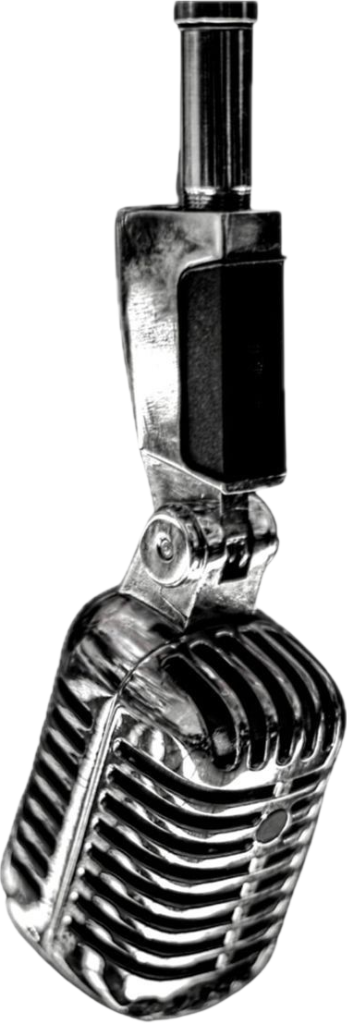
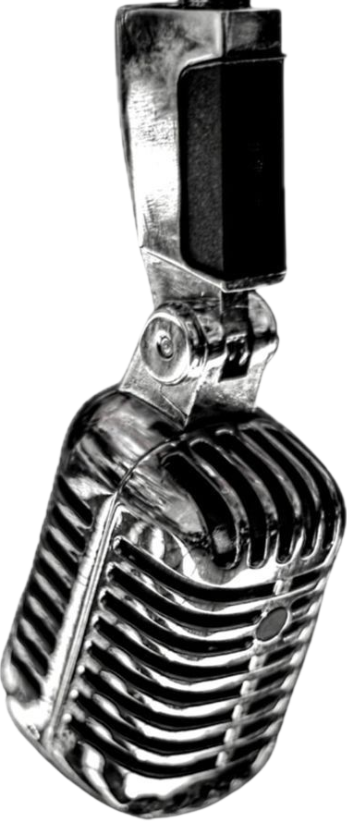
fix(mic-asset): crop top 202px cable stub from vintage-mic2.png so image starts at top metal connector, align 58.5% 0px transformOrigin with zero gap

diff --git a/src/components/ui/GlobalMicrophoneJourney.jsx b/src/components/ui/GlobalMicrophoneJourney.jsx
@@ -36,8 +36,8 @@ export const GlobalMicrophoneJourney = ({ active = true }) => {
 
       const isMobile = fullW < 768;
 
-      // Adjust stroke thickness: 3.5px on desktop, 2.2px on mobile
-      pathEl.setAttribute('stroke-width', isMobile ? '2.2' : '3.5');
+      // Stroke thickness: 3.2px on desktop, 2.0px on mobile
+      pathEl.setAttribute('stroke-width', isMobile ? '2.0' : '3.2');
 
       // Section Landmark Waypoints (Gutter & Edge Aligned)
       const points = [
@@ -116,15 +116,18 @@ export const GlobalMicrophoneJourney = ({ active = true }) => {
         const totalLength = pathObj.getTotalLength();
         const vh = window.innerHeight;
         const isMobile = window.innerWidth < 768;
-        const halfWidth = isMobile ? 28 : 32;
+        
+        // Microphone display width & top connector X offset (58.5% of width)
+        const micWidth = isMobile ? 48 : 56;
+        const connectorXOffset = micWidth * 0.585;
 
         // Position microphone suspended near ~55% of user's active viewport
         const targetDocY = currentScrollY.current + (vh * 0.55);
 
         const distance = findPathDistanceForY(pathObj, totalLength, targetDocY);
 
-        // Cable extends 3px past the connection point to enter directly inside the metallic ferrule (0 gap!)
-        pathObj.style.strokeDashoffset = `${totalLength - distance + 3}`;
+        // Cable terminates exactly at distance (pt.x, pt.y) without extra extension
+        pathObj.style.strokeDashoffset = `${totalLength - distance}`;
 
         // Get exact position and curve tangent angle
         const pt = pathObj.getPointAtLength(distance);
@@ -134,8 +137,8 @@ export const GlobalMicrophoneJourney = ({ active = true }) => {
         let angleDeg = (angleRad * (180 / Math.PI)) - 90;
         angleDeg = Math.min(6, Math.max(-6, angleDeg)); // Natural subtle pendulum sway (-6deg to +6deg)
 
-        // Pivot exactly from (pt.x, pt.y) top center mount
-        micObj.style.transform = `translate3d(${pt.x - halfWidth}px, ${pt.y - 2}px, 0px) rotate(${angleDeg}deg)`;
+        // Translate so top metal connector (58.5%, 0px) meets (pt.x, pt.y) exactly with 0 gap
+        micObj.style.transform = `translate3d(${pt.x - connectorXOffset}px, ${pt.y}px, 0px) rotate(${angleDeg}deg)`;
       }
 
       animationFrameRef.current = requestAnimationFrame(renderLoop);
@@ -166,28 +169,24 @@ export const GlobalMicrophoneJourney = ({ active = true }) => {
           ref={pathRef}
           fill="none"
           stroke="#E7D5A4"
-          strokeWidth="3.5"
+          strokeWidth="3.2"
           strokeLinecap="round"
           strokeLinejoin="round"
           className="opacity-90 drop-shadow-[0_2px_6px_rgba(0,0,0,0.7)]"
         />
       </svg>
 
-      {/* 2. SUSPENDED MICROPHONE HEAD (Attached directly to top center of cable tip with metallic ferrule) */}
+      {/* 2. SUSPENDED MICROPHONE HEAD (Tightly cropped asset starting at metal connector top pixel) */}
       <div 
         ref={micHeadRef}
-        className="absolute top-0 left-0 w-14 h-28 md:w-16 md:h-32 pointer-events-none z-[86] flex flex-col items-center will-change-transform"
-        style={{ transformOrigin: '50% 0px' }}
+        className="absolute top-0 left-0 w-[48px] h-[114px] md:w-[56px] md:h-[133px] pointer-events-none z-[86] flex flex-col items-center will-change-transform"
+        style={{ transformOrigin: '58.5% 0px' }}
       >
-        {/* Metal Ferrule / Brass Cable Connector (disappears wire seamlessly into microphone mount) */}
-        <div className="w-2.5 h-3 md:w-3 md:h-3.5 bg-[linear-gradient(180deg,#E7D5A4_0%,#C99A2E_60%,#11100C_100%)] rounded-t-xs border border-[#11100C] shadow-sm z-20 -mb-1.5 shrink-0" />
-
-        {/* Vintage Microphone Image Centered Directly Below Ferrule */}
-        <div className="relative w-full h-full flex flex-col items-center">
+        <div className="relative w-full h-full">
           <img 
             src="/media/vintage-mic2.png" 
             alt="Tangy Vintage Suspended Microphone" 
-            className="w-full h-full object-contain filter drop-shadow-[0_15px_30px_rgba(0,0,0,0.9)] contrast-125 -mt-0.5"
+            className="w-full h-full object-contain filter drop-shadow-[0_15px_30px_rgba(0,0,0,0.9)] contrast-125 block"
           />
 
           {/* Audio Micro-Pulse Glow when Sound is ON */}
